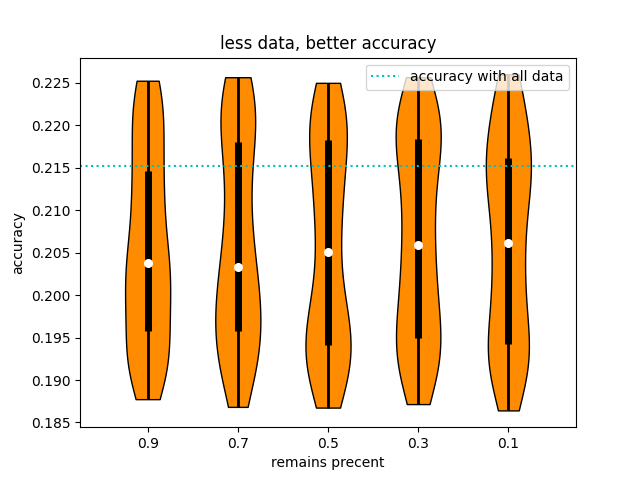
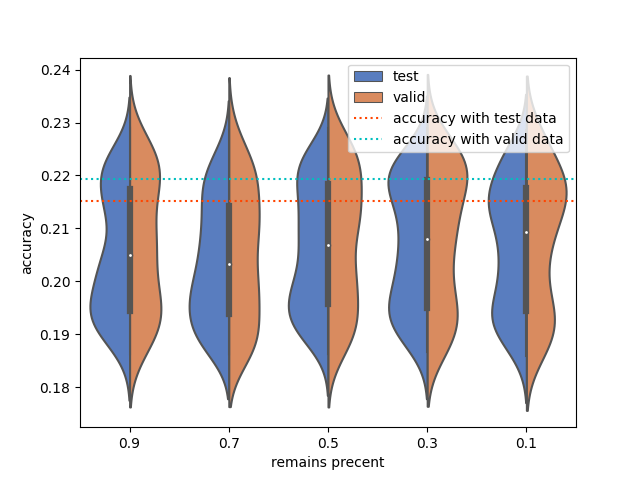
recent works

diff --git a/custom_method.py b/custom_method.py
@@ -238,26 +238,37 @@ def experience_predict_distribution(model, configs, precent_to_keep=1.0, epoch=1
         point_diffs=samples_diff_dic
     )
 
-def experience_possible_better(model, configs, precent_to_keep=1.0, epoch=100, eva_set=['test']):
+def experience_possible_better(model, configs, percents, epoch=100, eva_set=['test']):
+    
     for eva_set_type in eva_set:
         assert eva_set_type in ['train', 'test', 'valid']
-    all_select_ids = []
-    remain_num = int(model.dataset['train'].x.shape[0]*precent_to_keep)
-    performance = [[]]*len(eva_set)
-    for i in range(epoch):
-        remain_ids = np.random.choice(np.arange(model.dataset['train'].x.shape[0]), size=remain_num, replace=False)
-        while remain_ids in all_select_ids:
+    
+    model.train(num_epoch=configs['num_epoch_train'], checkpoint_name='ori', verbose=True)
+    for eva_type in eva_set:
+        eva_x, eva_y = model.np2tensor(model.dataset[eva_type].get_batch())
+        eva_diff = model.model(eva_x) - eva_y
+        print(len(eva_diff[torch.abs(eva_diff)<0.5])/len(eva_diff))
+    for percent_to_keep in percents:
+        all_select_ids = []
+        remain_num = int(model.dataset['train'].x.shape[0]*percent_to_keep)
+        performance = {}
+        for i in range(epoch):
             remain_ids = np.random.choice(np.arange(model.dataset['train'].x.shape[0]), size=remain_num, replace=False)
-        model.reset_train_dataset(remain_ids)
-        model.train(
-            num_epoch=configs['num_epoch_train'],
-            checkpoint_name='rand{}_num{}'.format(i, remain_num)
+            while remain_ids in all_select_ids:
+                remain_ids = np.random.choice(np.arange(model.dataset['train'].x.shape[0]), size=remain_num, replace=False)
+            model.reset_train_dataset(remain_ids)
+            model.train(
+                num_epoch=configs['num_epoch_train'],
+                checkpoint_name='rand{}_num{}'.format(i, remain_num)
+            )
+            for eva_type in eva_set:
+                eva_x, eva_y = model.np2tensor(model.dataset[eva_type].get_batch())
+                eva_diff = model.model(eva_x) - eva_y
+                if eva_type in performance.keys():
+                    performance[eva_type].append(len(eva_diff[torch.abs(eva_diff)<0.5])/len(eva_diff))
+                else:
+                    performance[eva_type] = [len(eva_diff[torch.abs(eva_diff)<0.5])/len(eva_diff)]
+        np.savez(
+            'plot_result/perform_better{}-{}-{}.npz'.format(percent_to_keep, configs['model'], configs['dataset']),
+            performance=performance
         )
-        for i, eva_type in enumerate(eva_set):
-            eva_x, eva_y = model.np2tensor(model.dataset[eva_type].get_batch())
-            eva_diff = model.model(eva_x) - eva_y
-            performance[i].append(len(eva_diff[torch.abs(eva_diff)<0.5])/len(eva_diff))
-    np.savez(
-        'plot_result/perform_better{}-{}-{}.npz'.format(precent_to_keep, configs['model'], configs['dataset']),
-        performance=performance
-    )

diff --git a/read_plot.py b/read_plot.py
@@ -1,7 +1,7 @@
-from cProfile import label
-from dataclasses import dataclass
 import numpy as np
+import pandas as pd
 import matplotlib.pyplot as plt
+import seaborn as sns
 
 def read_diff():
     diff_dic = np.load("plot_result/result-lr-movielens.npz")
@@ -207,15 +207,21 @@ def read_adjust_violin2():
 
 def read_perform_better():
     performance = []
-    precents = ['0.9', '0.7', '0.5', '0.3', '0.1']
-    for precent in precents:
-        file_name = 'perform_better{}-lr-movielens.npz'.format(precent)
-        performance.append(np.load('plot_result/{}'.format(file_name), allow_pickle=True)['performance'][0])
+    percents = ['0.9', '0.7', '0.5', '0.3', '0.1']
+    for percent in percents:
+        file_name = 'perform_better{}-lr-movielens.npz'.format(percent)
+        file = np.load('plot_result/{}'.format(file_name), allow_pickle=True)['performance'].item()
+        for eva_type in file:
+            for acc in file[eva_type]:
+                performance.append([percent, acc, eva_type])
+    performance = pd.DataFrame(data=performance, columns=['remains precent', 'accuracy', 'data type'])
     fig, ax = plt.subplots(nrows=1, ncols=1)
-    violin_plot(main_color='darkorange', line_color='k', scatter_color='white'
-                , all_data=performance, x_axis_labels=precents, ax=ax
-                , x_label="remains precent", y_label="accuracy", title="less data, better accuracy")
-    ax.axhline(y=0.21928807947019868, color='c', linestyle=':', label="accuracy with all data")
+    # violin_plot(main_color='darkorange', line_color='k', scatter_color='white'
+    #             , all_data=performance, x_axis_labels=precents, ax=ax
+    #             , x_label="remains precent", y_label="accuracy", title="less data, better accuracy")
+    ax = sns.violinplot(x="remains precent", y="accuracy", hue="data type", data=performance, palette="muted", split=True)
+    ax.axhline(y=0.2152317880794702, color='orangered', linestyle=':', label="accuracy with test data")
+    ax.axhline(y=0.21928807947019868, color='c', linestyle=':', label="accuracy with valid data")
     plt.legend()
     plt.show()
 

diff --git a/main.py b/main.py
@@ -68,14 +68,6 @@ model = Model(
 # custom_method.experience_get_correlation(model=model, configs=configs)
 # custom_method.exprience_remove_all_negtive(model=model, configs=configs)
 # custom_method.experience_predict_distribution(model, configs, precent_to_keep=0.7)
-model.train(num_epoch=configs['num_epoch_train'], checkpoint_name='ori', verbose=True)
-eva_set = ['valid']
-for eva_type in eva_set:
-    eva_x, eva_y = model.np2tensor(model.dataset[eva_type].get_batch())
-    eva_diff = model.model(eva_x) - eva_y
-    print(torch.abs(eva_diff))
-    print(len(eva_diff[torch.abs(eva_diff)<0.5])/len(eva_diff))
-for precent in [0.3, 0.1, 0.9, 0.7, 0.5]:
-    custom_method.experience_possible_better(model, configs, precent_to_keep=precent)
+custom_method.experience_possible_better(model, configs, percents=[0.9, 0.7, 0.5, 0.3, 0.1], eva_set=['test', 'valid'])
 
 
